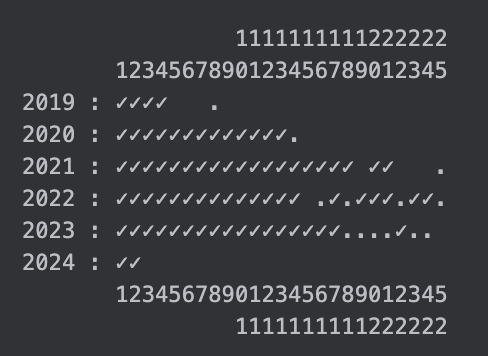
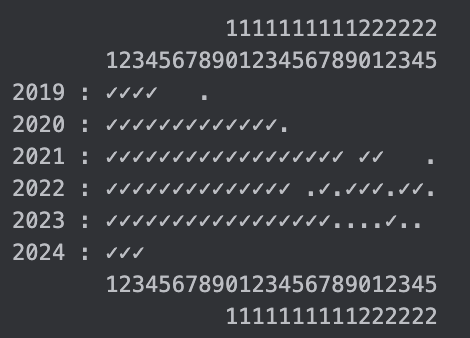
2024 Day 3 first go; now to learn regex.

diff --git a/src/main/java/com/simongarton/adventofcode/year2024/Year2024Day3.java b/src/main/java/com/simongarton/adventofcode/year2024/Year2024Day3.java
@@ -2,25 +2,171 @@ package com.simongarton.adventofcode.year2024;
 
 import com.simongarton.adventofcode.AdventOfCodeChallenge;
 
+import java.util.ArrayList;
+import java.util.List;
+
 public class Year2024Day3 extends AdventOfCodeChallenge {
+
+    private boolean currentlyEnabled = true;
 
     @Override
     public String title() {
-        return "Day 0: Template code";
+        return "Day 3: Mull It Over";
     }
 
     @Override
     public Outcome run() {
-        return this.runChallenge(2024, 0);
+        return this.runChallenge(2024, 3);
     }
 
     @Override
     public String part1(final String[] input) {
-        return null;
+
+        long total = 0;
+        for (final String mainLine : input) {
+            final List<String> cleanLines = this.findCalculations(mainLine, false);
+            total += cleanLines.stream().map(this::calculate).mapToLong(Long::valueOf).sum();
+        }
+
+        return String.valueOf(total);
+    }
+
+    private Integer calculate(final String line) {
+        final String[] parts = line.split("\\(");
+        final String[] parts2 = parts[1].split("\\)");
+        final String[] numbers = parts2[0].split(",");
+        return Integer.parseInt(numbers[0]) * Integer.parseInt(numbers[1]);
+    }
+
+    private List<String> findCalculations(final String s, final boolean specialRules) {
+
+        // I should be able to do this with a regex. If I could do it with a regex.
+
+        System.out.println("\nnew line\n");
+
+        final List<String> valid = List.of("m", "u", "l", "(", ")", "0", "1", "2", "3", "4", "5", "6", "7", "8", "9", ",");
+
+        final List<String> calculations = new ArrayList<>();
+        StringBuilder currentCalculation = new StringBuilder();
+        for (int i = 0; i < s.length(); i++) {
+
+            if (specialRules) {
+                if (i < (s.length() - 4) && s.substring(i, i + 4).equalsIgnoreCase("do()")) {
+                    this.currentlyEnabled = true;
+                    System.out.println("enabled");
+                    i += 3;
+                    continue;
+                }
+                if (i < (s.length() - 7) && s.substring(i, i + 7).equalsIgnoreCase("don't()")) {
+                    this.currentlyEnabled = false;
+                    System.out.println("disabled");
+                    i += 6;
+                    continue;
+                }
+            }
+
+            final String letter = "" + s.charAt(i);
+            final String lastLetter = currentCalculation.length() > 0 ?
+                    "" + currentCalculation.charAt(currentCalculation.length() - 1) :
+                    "";
+//            System.out.printf("%s: letter %s lastLetter %s currentCalculation %s calculations %s %n",
+//                    i, letter, lastLetter, currentCalculation.toString(), calculations.size());
+
+            if (!valid.contains(letter)) {
+                currentCalculation = new StringBuilder();
+                continue;
+            }
+            if (letter.equalsIgnoreCase("m")) {
+                if (currentCalculation.toString().equalsIgnoreCase("")) {
+                    currentCalculation.append(letter);
+                }
+                continue;
+            }
+            if (currentCalculation.length() == 0) {
+                continue;
+            }
+            if (letter.equalsIgnoreCase("u")) {
+                if (currentCalculation.toString().equalsIgnoreCase("m")) {
+                    currentCalculation.append(letter);
+                }
+                continue;
+            }
+            if (letter.equalsIgnoreCase("l")) {
+                if (currentCalculation.toString().equalsIgnoreCase("mu")) {
+                    currentCalculation.append(letter);
+                }
+                continue;
+            }
+            if (letter.equalsIgnoreCase("(")) {
+                if (currentCalculation.toString().equalsIgnoreCase("mul")) {
+                    currentCalculation.append(letter);
+                }
+                continue;
+            }
+            if (this.isNumeric(letter)) {
+                if (currentCalculation.toString().equalsIgnoreCase("mul(")) {
+                    currentCalculation.append(letter);
+                    continue;
+                }
+                if (this.isNumeric(lastLetter)) {
+                    currentCalculation.append(letter);
+                    continue;
+                }
+                if (lastLetter.equalsIgnoreCase(",")) {
+                    currentCalculation.append(letter);
+                }
+                continue;
+            }
+            if (letter.equalsIgnoreCase(",")) {
+                if (this.isNumeric(lastLetter)) {
+                    currentCalculation.append(letter);
+                }
+                continue;
+            }
+            if (letter.equalsIgnoreCase(")")) {
+                if (this.isNumeric(lastLetter)) {
+                    currentCalculation.append(letter);
+                    if (this.currentlyEnabled) {
+                        System.out.println(i + ": " + currentCalculation);
+                        calculations.add(currentCalculation.toString());
+                    } else {
+                        System.out.println(i + ": " + "-- " + currentCalculation);
+                    }
+
+                }
+                currentCalculation = new StringBuilder();
+            }
+            // and if I'm overrunning
+            if (currentCalculation.length() > 0) {
+                if (!this.isNumeric(letter)) {
+                    currentCalculation = new StringBuilder();
+                }
+            }
+        }
+
+        return calculations;
+    }
+
+    private boolean isNumeric(final String letter) {
+        try {
+            Integer.parseInt(letter);
+            return true;
+        } catch (final NumberFormatException e) {
+            return false;
+        }
     }
 
     @Override
     public String part2(final String[] input) {
-        return null;
+
+        // not 86865767
+        // not 88880807
+        long total = 0;
+        for (final String mainLine : input) {
+            final List<String> cleanLines = this.findCalculations(mainLine, true);
+            total += cleanLines.stream().map(this::calculate).mapToLong(Long::valueOf).sum();
+        }
+
+        return String.valueOf(total);
     }
 }

diff --git a/src/main/java/com/simongarton/adventofcode/CurrentChallenge.java b/src/main/java/com/simongarton/adventofcode/CurrentChallenge.java
@@ -1,11 +1,11 @@
 package com.simongarton.adventofcode;
 
-import com.simongarton.adventofcode.year2024.Year2024Day2;
+import com.simongarton.adventofcode.year2024.Year2024Day3;
 
 public class CurrentChallenge {
 
     public static AdventOfCodeChallenge getCurrentChallenge() {
 
-        return new Year2024Day2();
+        return new Year2024Day3();
     }
 }

diff --git a/src/main/java/com/simongarton/adventofcode/Day.java b/src/main/java/com/simongarton/adventofcode/Day.java
@@ -2,5 +2,5 @@ package com.simongarton.adventofcode;
 
 public class Day {
 
-    public static String DAY = "Day2";
+    public static String DAY = "Day3";
 }

diff --git a/readme.md b/readme.md
@@ -9,6 +9,13 @@ on 1 Dec, and getting progressively harder - I rarely finish the last few days.
 
 ## 2024
 
+## Day 3:  Mull it over
+
+Parse a string - no, wait, six strings (:facepalm) - looking for valid calculations inside garbage text.  
+Severe bruising on leg following kicking myself for not having learned regex.  
+Then got stuck on part 2 until I realised I cannot treat the strings individually. That was evil for day 3, Eric. We
+were saying day 2 was disappointingly easy ...
+
 ## Day 2:  Red-Nosed Reports
 
 Server crashed several times while trying to get puzzle and submit answers :rofl  

diff --git a/progress.md b/progress.md
@@ -5,6 +5,6 @@
     2021 : ✓✓✓✓✓✓✓✓✓✓✓✓✓✓✓✓✓✓ ✓✓   .
     2022 : ✓✓✓✓✓✓✓✓✓✓✓✓✓✓ .✓.✓✓✓.✓✓.
     2023 : ✓✓✓✓✓✓✓✓✓✓✓✓✓✓✓✓✓....✓..
-    2024 : ✓✓
+    2024 : ✓✓✓
            1234567890123456789012345
                     1111111111222222
